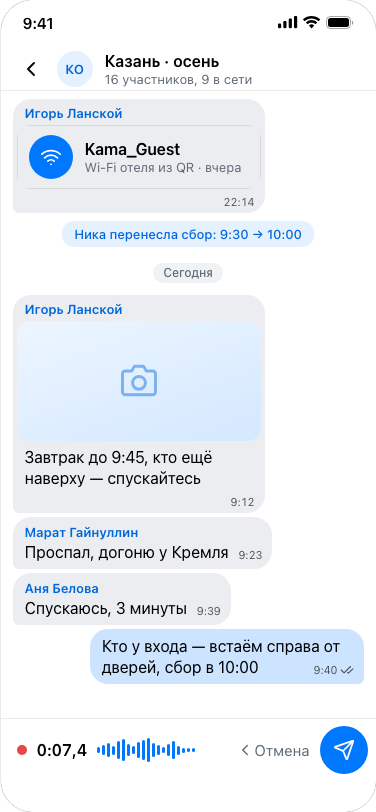
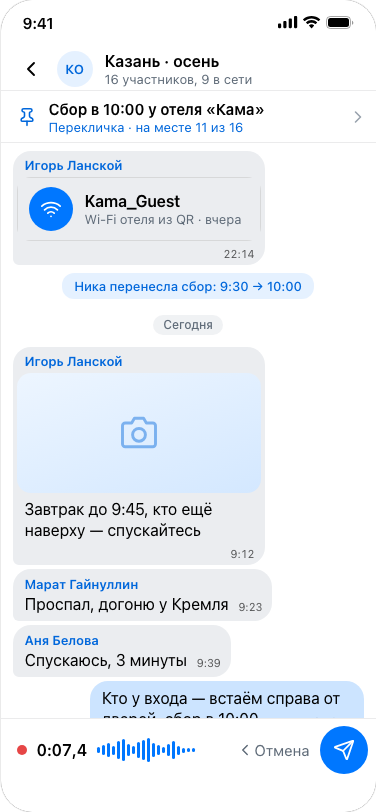
Сбор: заметки в «Избранном», закреп в записи голосового (WIP)

Changed region(s): [[0.0585, 0.1232, 0.9654, 0.8929], [0.6144, 0.6158, 0.6729, 0.6466]]

diff --git a/platform/concepts/sbor/screens/saved.html b/platform/concepts/sbor/screens/saved.html
@@ -1,1 +1,1 @@
-<div class="screen ui vk-light" id="scr-saved"><header class="ui-nav ui-chat-nav"><button class="ui-icon-btn" data-back aria-label="Назад"><svg><use href="#i-chevron-left"/></svg></button><span class="ui-chat-who"><span class="ui-chat-face is-initial">ИЗ</span><span class="ui-chat-text"><strong>Избранное</strong><span>38 сообщений · 6 файлов</span></span></span><span></span></header><div class="ui-scroll"><div class="ui-chat"><p class="ui-day">Вчера</p><div class="ui-bubble is-out"><span class="ui-bubble-from">Переслано от Рустам Хайруллин</span><span class="ui-bubble-text">Свияжск: Успенский собор, потом вниз к пристани, последний катер обратно в 18:20</span><span class="ui-bubble-meta">22:31<svg><use href="#i-check-check"/></svg></span></div><div class="ui-bubble is-out has-attach"><span class="ui-bubble-media"><span class="sb-file"><span class="sb-file-ico"><svg><use href="#i-file-text"/></svg></span><span><strong>Расписание катера.jpg</strong><span>снято на стенде у причала · 1,2 МБ</span></span></span></span><span class="ui-bubble-meta">22:40<svg><use href="#i-check-check"/></svg></span></div><p class="ui-day">Сегодня</p><div class="ui-bubble ui-voice is-out"><span class="ui-voice-row"><button class="ui-voice-play" data-toast="Воспроизведение 0:09" aria-label="Голосовое 0:09"><svg class="ui-fill-ico"><use href="#i-play"/></svg></button><span class="ui-voice-body"><svg class="ui-wave" viewBox="0 0 120 24" aria-hidden="true"><rect x="0" y="4.5" width="2" height="15" rx="1"/><rect x="4" y="8" width="2" height="8" rx="1"/><rect x="8" y="3" width="2" height="18" rx="1"/><rect x="12" y="3.5" width="2" height="17" rx="1"/><rect x="16" y="2.5" width="2" height="19" rx="1"/><rect x="20" y="6.5" width="2" height="11" rx="1"/><rect x="24" y="5.5" width="2" height="13" rx="1"/><rect x="28" y="3.5" width="2" height="17" rx="1"/><rect x="32" y="2.5" width="2" height="19" rx="1"/><rect x="36" y="7.5" width="2" height="9" rx="1"/><rect x="40" y="8.5" width="2" height="7" rx="1"/><rect x="44" y="7" width="2" height="10" rx="1"/><rect x="48" y="5.5" width="2" height="13" rx="1"/><rect x="52" y="5.5" width="2" height="13" rx="1"/><rect x="56" y="10" width="2" height="4" rx="1"/><rect x="60" y="9.5" width="2" height="5" rx="1"/><rect x="64" y="5.5" width="2" height="13" rx="1"/><rect x="68" y="7" width="2" height="10" rx="1"/><rect x="72" y="2.5" width="2" height="19" rx="1"/><rect x="76" y="4.5" width="2" height="15" rx="1"/><rect x="80" y="3" width="2" height="18" rx="1"/><rect x="84" y="3" width="2" height="18" rx="1"/><rect x="88" y="2" width="2" height="20" rx="1"/><rect x="92" y="4" width="2" height="16" rx="1"/><rect x="96" y="3" width="2" height="18" rx="1"/><rect x="100" y="2.5" width="2" height="19" rx="1"/><rect x="104" y="7" width="2" height="10" rx="1"/><rect x="108" y="6.5" width="2" height="11" rx="1"/><rect x="112" y="3" width="2" height="18" rx="1"/><rect x="116" y="8.5" width="2" height="7" rx="1"/></svg><span class="ui-bubble-meta">0:09<span>7:58</span></span></span></span></div><div class="ui-bubble is-out has-attach"><span class="ui-bubble-media"><span class="sb-file"><span class="sb-file-ico"><svg><use href="#i-file-text"/></svg></span><span><strong>Билет Казань — Москва.pdf</strong><span>11 октября, 16:40 · вагон 7, место 21 · 214 КБ</span></span></span></span><span class="ui-bubble-meta">8:05<svg><use href="#i-check-check"/></svg></span></div></div></div><div class="ui-composer"><button class="ui-icon-btn" data-menu="Фото и видео>attach|Файл=Откроются Файлы" aria-label="Вложение"><svg><use href="#i-paperclip"/></svg></button><input class="ui-composer-field" placeholder="Заметка себе" aria-label="Заметка себе"/><span class="ui-composer-send"><button class="ui-icon-btn" data-toast="Отправлено" aria-label="Отправить"><svg><use href="#i-send"/></svg></button></span></div><div class="home-ind"></div></div>
+<div class="screen ui vk-light" id="scr-saved"><header class="ui-nav ui-chat-nav"><button class="ui-icon-btn" data-back aria-label="Назад"><svg><use href="#i-chevron-left"/></svg></button><span class="ui-chat-who"><span class="ui-chat-face is-initial">ИЗ</span><span class="ui-chat-text"><strong>Избранное</strong><span>38 сообщений · 6 файлов</span></span></span><span></span></header><div class="ui-scroll"><div class="ui-chat"><p class="ui-day">8 октября</p><div class="ui-bubble is-out has-attach"><span class="ui-bubble-media"><span class="sb-file"><span class="sb-file-ico"><svg><use href="#i-file-text"/></svg></span><span><strong>Бронь «Кама» · 9–11 октября.pdf</strong><span>3 номера, завтрак включён · 96 КБ</span></span></span></span><span class="ui-bubble-meta">19:02<svg><use href="#i-check-check"/></svg></span></div><div class="ui-bubble is-out"><span class="ui-bubble-text">Маршрут: Кремль → Баумана → Старо-Татарская слобода, обед в «Чак-чак»</span><span class="ui-bubble-meta">19:10<svg><use href="#i-check-check"/></svg></span></div><div class="ui-bubble is-out"><span class="ui-bubble-text">Взять: зарядку, дождевик, наличные на катер</span><span class="ui-bubble-meta">23:47<svg><use href="#i-check-check"/></svg></span></div><p class="ui-day">Вчера</p><div class="ui-bubble is-out"><span class="ui-bubble-from">Переслано от Рустам Хайруллин</span><span class="ui-bubble-text">Свияжск: Успенский собор, потом вниз к пристани, последний катер обратно в 18:20</span><span class="ui-bubble-meta">22:31<svg><use href="#i-check-check"/></svg></span></div><div class="ui-bubble is-out has-attach"><span class="ui-bubble-media"><span class="sb-file"><span class="sb-file-ico"><svg><use href="#i-file-text"/></svg></span><span><strong>Расписание катера.jpg</strong><span>снято на стенде у причала · 1,2 МБ</span></span></span></span><span class="ui-bubble-meta">22:40<svg><use href="#i-check-check"/></svg></span></div><p class="ui-day">Сегодня</p><div class="ui-bubble ui-voice is-out"><span class="ui-voice-row"><button class="ui-voice-play" data-toast="Воспроизведение 0:09" aria-label="Голосовое 0:09"><svg class="ui-fill-ico"><use href="#i-play"/></svg></button><span class="ui-voice-body"><svg class="ui-wave" viewBox="0 0 120 24" aria-hidden="true"><rect x="0" y="4.5" width="2" height="15" rx="1"/><rect x="4" y="8" width="2" height="8" rx="1"/><rect x="8" y="3" width="2" height="18" rx="1"/><rect x="12" y="3.5" width="2" height="17" rx="1"/><rect x="16" y="2.5" width="2" height="19" rx="1"/><rect x="20" y="6.5" width="2" height="11" rx="1"/><rect x="24" y="5.5" width="2" height="13" rx="1"/><rect x="28" y="3.5" width="2" height="17" rx="1"/><rect x="32" y="2.5" width="2" height="19" rx="1"/><rect x="36" y="7.5" width="2" height="9" rx="1"/><rect x="40" y="8.5" width="2" height="7" rx="1"/><rect x="44" y="7" width="2" height="10" rx="1"/><rect x="48" y="5.5" width="2" height="13" rx="1"/><rect x="52" y="5.5" width="2" height="13" rx="1"/><rect x="56" y="10" width="2" height="4" rx="1"/><rect x="60" y="9.5" width="2" height="5" rx="1"/><rect x="64" y="5.5" width="2" height="13" rx="1"/><rect x="68" y="7" width="2" height="10" rx="1"/><rect x="72" y="2.5" width="2" height="19" rx="1"/><rect x="76" y="4.5" width="2" height="15" rx="1"/><rect x="80" y="3" width="2" height="18" rx="1"/><rect x="84" y="3" width="2" height="18" rx="1"/><rect x="88" y="2" width="2" height="20" rx="1"/><rect x="92" y="4" width="2" height="16" rx="1"/><rect x="96" y="3" width="2" height="18" rx="1"/><rect x="100" y="2.5" width="2" height="19" rx="1"/><rect x="104" y="7" width="2" height="10" rx="1"/><rect x="108" y="6.5" width="2" height="11" rx="1"/><rect x="112" y="3" width="2" height="18" rx="1"/><rect x="116" y="8.5" width="2" height="7" rx="1"/></svg><span class="ui-bubble-meta">0:09<span>7:58</span></span></span></span></div><div class="ui-bubble is-out has-attach"><span class="ui-bubble-media"><span class="sb-file"><span class="sb-file-ico"><svg><use href="#i-file-text"/></svg></span><span><strong>Билет Казань — Москва.pdf</strong><span>11 октября, 16:40 · вагон 7, место 21 · 214 КБ</span></span></span></span><span class="ui-bubble-meta">8:05<svg><use href="#i-check-check"/></svg></span></div></div></div><div class="ui-composer"><button class="ui-icon-btn" data-menu="Фото и видео>attach|Файл=Откроются Файлы" aria-label="Вложение"><svg><use href="#i-paperclip"/></svg></button><input class="ui-composer-field" placeholder="Заметка себе" aria-label="Заметка себе"/><span class="ui-composer-send"><button class="ui-icon-btn" data-toast="Отправлено" aria-label="Отправить"><svg><use href="#i-send"/></svg></button></span></div><div class="home-ind"></div></div>

diff --git a/platform/concepts/sbor/screens/record.html b/platform/concepts/sbor/screens/record.html
@@ -1,1 +1,1 @@
-<div class="screen ui vk-light" id="scr-record"><header class="ui-nav ui-chat-nav"><button class="ui-icon-btn" data-back aria-label="Назад"><svg><use href="#i-chevron-left"/></svg></button><button class="ui-chat-who tap" data-go="tripinfo" aria-label="Сведения: Казань · осень"><span class="ui-chat-face is-initial">КО</span><span class="ui-chat-text"><strong>Казань · осень</strong><span>16 участников, 9 в сети</span></span></button><span></span></header><div class="ui-scroll"><div class="ui-chat"><div class="ui-bubble is-in has-attach"><span class="ui-bubble-from">Игорь Ланской</span><span class="ui-bubble-media"><span class="sb-net"><span class="sb-net-ico"><svg><use href="#i-wifi"/></svg></span><span><strong>Kama_Guest</strong><span>Wi‑Fi отеля из QR · вчера</span></span></span></span><span class="ui-bubble-meta">22:14</span></div><p class="sb-sys">Ника перенесла сбор: 9:30 → 10:00</p><p class="ui-day">Сегодня</p><div class="ui-bubble is-in has-attach"><span class="ui-bubble-from">Игорь Ланской</span><span class="ui-bubble-media"><span class="sb-photo ph"></span></span><span class="ui-bubble-text">Завтрак до 9:45, кто ещё наверху — спускайтесь</span><span class="ui-bubble-meta">9:12</span></div><div class="ui-bubble is-in"><span class="ui-bubble-from">Марат Гайнуллин</span><span class="ui-bubble-text">Проспал, догоню у Кремля</span><span class="ui-bubble-meta">9:23</span></div><div class="ui-bubble is-in"><span class="ui-bubble-from">Аня Белова</span><span class="ui-bubble-text">Спускаюсь, 3 минуты</span><span class="ui-bubble-meta">9:39</span></div><div class="ui-bubble is-out"><span class="ui-bubble-text">Кто у входа — встаём справа от дверей, сбор в 10:00</span><span class="ui-bubble-meta">9:40<svg><use href="#i-check-check"/></svg></span></div></div></div><div class="sb-rec" role="group" aria-label="Запись голосового"><span class="sb-rec-dot" aria-hidden="true"></span><strong class="sb-rec-time">0:07,4</strong><span class="sb-rec-wave" aria-hidden="true"><i class="h6"></i><i class="h10"></i><i class="h14"></i><i class="h9"></i><i class="h18"></i><i class="h22"></i><i class="h12"></i><i class="h8"></i><i class="h16"></i><i class="h20"></i><i class="h24"></i><i class="h14"></i><i class="h10"></i><i class="h6"></i><i class="h12"></i><i class="h18"></i><i class="h9"></i><i class="h5"></i><i class="h4"></i><i class="h4"></i></span><button class="sb-rec-cancel" data-back aria-label="Отменить запись"><svg><use href="#i-chevron-left"/></svg>Отмена</button><button class="sb-rec-send" data-toast="Голосовое 0:07 отправлено|trip" aria-label="Отправить голосовое"><svg><use href="#i-send"/></svg></button></div><div class="home-ind"></div></div>
+<div class="screen ui vk-light" id="scr-record"><header class="ui-nav ui-chat-nav"><button class="ui-icon-btn" data-back aria-label="Назад"><svg><use href="#i-chevron-left"/></svg></button><button class="ui-chat-who tap" data-go="tripinfo" aria-label="Сведения: Казань · осень"><span class="ui-chat-face is-initial">КО</span><span class="ui-chat-text"><strong>Казань · осень</strong><span>16 участников, 9 в сети</span></span></button><span></span></header><button class="sb-pin" data-go="rollcall" aria-label="Перекличка: сбор в 10:00"><svg><use href="#i-pin"/></svg><span><strong>Сбор в 10:00 у отеля «Кама»</strong><span>Перекличка · на месте 11 из 16</span></span><svg><use href="#i-chevron-right"/></svg></button><div class="ui-scroll"><div class="ui-chat"><div class="ui-bubble is-in has-attach"><span class="ui-bubble-from">Игорь Ланской</span><span class="ui-bubble-media"><span class="sb-net"><span class="sb-net-ico"><svg><use href="#i-wifi"/></svg></span><span><strong>Kama_Guest</strong><span>Wi‑Fi отеля из QR · вчера</span></span></span></span><span class="ui-bubble-meta">22:14</span></div><p class="sb-sys">Ника перенесла сбор: 9:30 → 10:00</p><p class="ui-day">Сегодня</p><div class="ui-bubble is-in has-attach"><span class="ui-bubble-from">Игорь Ланской</span><span class="ui-bubble-media"><span class="sb-photo ph"></span></span><span class="ui-bubble-text">Завтрак до 9:45, кто ещё наверху — спускайтесь</span><span class="ui-bubble-meta">9:12</span></div><div class="ui-bubble is-in"><span class="ui-bubble-from">Марат Гайнуллин</span><span class="ui-bubble-text">Проспал, догоню у Кремля</span><span class="ui-bubble-meta">9:23</span></div><div class="ui-bubble is-in"><span class="ui-bubble-from">Аня Белова</span><span class="ui-bubble-text">Спускаюсь, 3 минуты</span><span class="ui-bubble-meta">9:39</span></div><div class="ui-bubble is-out"><span class="ui-bubble-text">Кто у входа — встаём справа от дверей, сбор в 10:00</span><span class="ui-bubble-meta">9:40<svg><use href="#i-check-check"/></svg></span></div></div></div><div class="sb-rec" role="group" aria-label="Запись голосового"><span class="sb-rec-dot" aria-hidden="true"></span><strong class="sb-rec-time">0:07,4</strong><span class="sb-rec-wave" aria-hidden="true"><i class="h6"></i><i class="h10"></i><i class="h14"></i><i class="h9"></i><i class="h18"></i><i class="h22"></i><i class="h12"></i><i class="h8"></i><i class="h16"></i><i class="h20"></i><i class="h24"></i><i class="h14"></i><i class="h10"></i><i class="h6"></i><i class="h12"></i><i class="h18"></i><i class="h9"></i><i class="h5"></i><i class="h4"></i><i class="h4"></i></span><button class="sb-rec-cancel" data-back aria-label="Отменить запись"><svg><use href="#i-chevron-left"/></svg>Отмена</button><button class="sb-rec-send" data-toast="Голосовое 0:07 отправлено|trip" aria-label="Отправить голосовое"><svg><use href="#i-send"/></svg></button></div><div class="home-ind"></div></div>

diff --git a/platform/concepts/sbor/docs/02-architecture.md b/platform/concepts/sbor/docs/02-architecture.md
@@ -234,6 +234,7 @@
 | `geo` | «Марат Гайнуллин» | `chat` | — | переход |
 | `record` | «Назад», «Отменить запись» | `trip` | — | возврат по IA |
 | `record` | «Сведения: Казань · осень» | `tripinfo` | — | переход |
+| `record` | «Перекличка: сбор в 10:00» | `rollcall` | — | переход |
 | `record` | «Отправить голосовое» | `trip` | — | подтверждение |
 | `chat` | «Назад» | `chats` | — | возврат по IA |
 | `chat` | «Позвонить» | `call` | `UIBackgroundModes: voip` | entitlement, без alert |
@@ -459,6 +460,7 @@
 | `geo` | Речной порт, причал 3 | элемент экрана | показывает подтверждение «Место отправлено в чат» | Чат поездки (trip) | — | — |
 | `record` | Назад | кнопка «назад» | возвращает к родительскому экрану | Чат поездки (trip) | — | — |
 | `record` | Сведения: Казань · осень | элемент экрана | открывает экран | Сведения о поездке (tripinfo) | — | — |
+| `record` | Перекличка: сбор в 10:00 | элемент экрана | открывает экран | Перекличка (rollcall) | — | — |
 | `record` | Отменить запись | кнопка «назад» | возвращает к родительскому экрану | Чат поездки (trip) | — | — |
 | `record` | Отправить голосовое | элемент экрана | показывает подтверждение «Голосовое 0:07 отправлено» | Чат поездки (trip) | — | — |
 | `chat` | Назад | кнопка «назад» | возвращает к родительскому экрану | Чаты (chats) | — | — |

diff --git a/platform/concepts/sbor/docs/03-design-system.md b/platform/concepts/sbor/docs/03-design-system.md
@@ -29,7 +29,7 @@
 ## Компоненты ядра
 
 <!-- @generated:kernel-components -->
-Экраны собраны из компонентов `kernel/components.mjs`: `row` ×79, `section` ×62, `avatar` ×51, `list` ×32, `leadIcon` ×31, `cell` ×25, `bubble` ×23, `nav` ×14, `button` ×12, `actions` ×9, `dialog` ×9, `group` ×9, `iconButton` ×8, `day` ×8, `denied` ×5, `chatNav` ×5, `chat` ×5, `largeTitle` ×4, `tabBar` ×4, `composer` ×4, `segments` ×3, `search` ×3, `textButton` ×2, `voice` ×2, `callView` ×1, `chips` ×1, `usersStack` ×1, `miniInfo` ×1.
+Экраны собраны из компонентов `kernel/components.mjs`: `row` ×79, `section` ×62, `avatar` ×51, `list` ×32, `leadIcon` ×31, `bubble` ×26, `cell` ×25, `nav` ×14, `button` ×12, `actions` ×9, `day` ×9, `dialog` ×9, `group` ×9, `iconButton` ×8, `denied` ×5, `chatNav` ×5, `chat` ×5, `largeTitle` ×4, `tabBar` ×4, `composer` ×4, `segments` ×3, `search` ×3, `textButton` ×2, `voice` ×2, `callView` ×1, `chips` ×1, `usersStack` ×1, `miniInfo` ×1.
 <!-- @end -->
 
 ## Доменные компоненты
